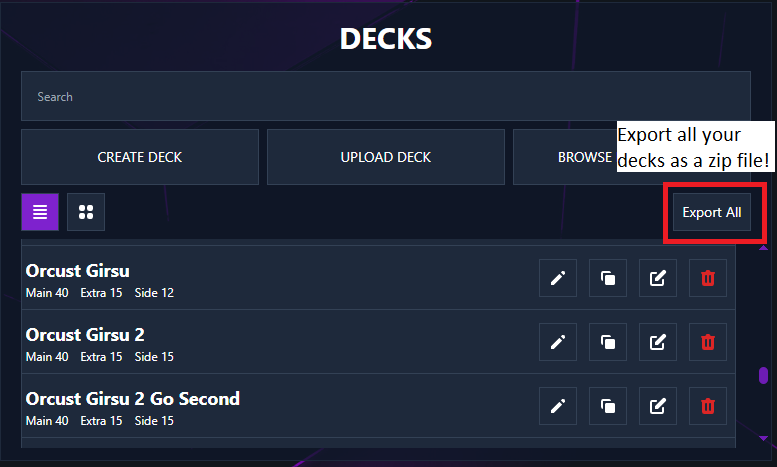
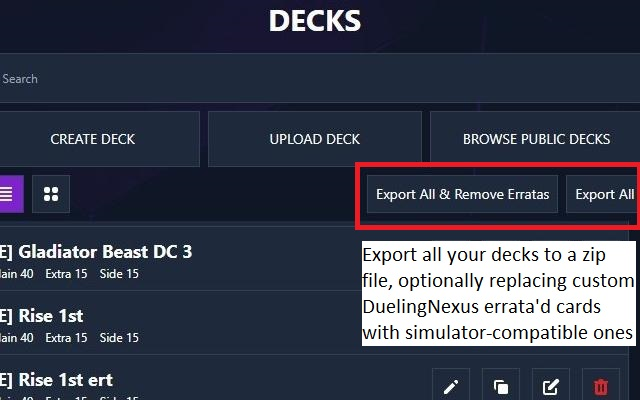
bug fix, some refactoring, new export without errata feature

diff --git a/lib/utils.js b/lib/utils.js
@@ -1,0 +1,159 @@
+/**
+ * Download a file using a blob
+ * @param {String} filename - The name of the file to download
+ * @param {String} content - The content of the file to download
+ */
+function downloadFile(filename, content) {
+    const blob = new Blob([content], { type: 'text/plain' });
+    const a = document.createElement('a');
+    a.href = URL.createObjectURL(blob);
+    a.download = filename;
+    document.body.appendChild(a);
+    a.click();
+    document.body.removeChild(a);
+    URL.revokeObjectURL(a.href);
+}
+
+/**
+ * Builds .ydk text from an array of main, extra and side deck card IDs.
+ * @param {Array<number>} main - The main deck card IDs.
+ * @param {Array<number>} extra - The extra deck card IDs.
+ * @param {Array<number>} side - The side deck card IDs.
+ * @returns {string} The .ydk deck text.
+ */
+function buildDeckText(main, extra, side) {
+    const lines = ['#created by ...', '#main'];
+    lines.push(...main);
+    lines.push('#extra', ...extra);
+    lines.push('!side', ...side);
+    return lines.join('\n');
+}
+
+/**
+ * Builds .ydk text from a deck object returned by the server.
+ * Unfortunately js doesn't support function overloading
+ * @param {Object} deck - The deck object returned by the server
+ * @returns {string} The .ydk deck text
+ */
+function buildDeckTextFromServer(deck) {
+    return buildDeckText(deck.main_deck.split(','), 
+                            deck.extra_deck.split(','), 
+                            deck.side_deck.split(','));
+}
+
+/**
+ * Retrieves all decks from the server, or a single deck if the id is included
+ *
+ * I've chosen to leave it like this, where it retrieves every deck when download is clicked(regardless of Export All or single (single deck hasn't been added yet)),
+ * in case the user changes a deck and downloads without reloading the page
+ * @param {Number} id - The id of the deck to retrieve, default is null which will retrieve all decks
+ * @return {Promise<Array<Object>>} A promise that resolves to an array of deck(s), empty if none were found
+ */
+async function retrieveDecks(id=null) {
+    const response = await fetch(`/api/list-decks.php`);// This is the only available way to retrieve decks from the server(to my knowledge)
+    const { success, decks } = await response.json();
+
+    if (success) {
+        if (id === null) {
+            return decks;
+        } else {
+            const deck = decks.find(deck => deck.id === id);
+            return deck === undefined ? [] : [deck];
+        }
+    }
+    return [];
+}
+
+/**
+ * Downloads all decks as a zip file or one as ydk if an id is included
+ * 
+ * @param {String} id - The id of the deck to download, default is null which will download all decks
+ * @param {Function} preProcessDecks - A function that can be used to modify the decks before downloading, takes an array of decks and returns nothing
+ */
+async function downloadDecks(id=null, preProcessDecks = (decks) => {}) {
+    const decks = await retrieveDecks(id);
+    if (decks.length === 0) return 0; // Nothing to do
+
+    preProcessDecks(decks);
+
+    // Download single deck as ydk
+    if (id !== null && decks.length === 1) {
+        downloadFile(`${decks[0].name}.ydk`, buildDeckTextFromServer(decks));
+        return 0;
+    }
+
+    // Download all decks as a zip file
+    var zip = new JSZip();
+
+    decks.forEach(deck => {
+        //console.log(`${deck.name}`);
+        zip.file(`${deck.name}.ydk`, buildDeckTextFromServer(deck));
+    });
+
+    zip.generateAsync({type:"blob"})
+    .then(function(content) {
+        downloadFile("duelingnexus_decks.zip", content);
+    });
+}
+
+
+/**
+ * Replaces all errata ids in all decks with their corresponding normal id
+ * @param {Array<Object>} decks - Deck object returned by the server
+ */
+function replaceAllDeckErratas(decks) {
+    // Normal Id and Errata Id in order. May change to include multiple normal ids eventually (search blue-eyes as an example)
+    // Todo: These vars are used in two places. Put them in one
+    const normalIds = [
+      88264978, 53183600, 15894048, 75745607, 40737112, 47297616, 5645210, 61468779,
+      76862289, 38369349, 22446869, 91842653, 9596126, 89111398, 82841979, 28563545,
+      90960358, 21785144, 2356994, 95727991, 20932152, 58996430, 40473581, 96235275,
+      40044918, 48092532, 42940404, 2134346, 41006930, 89312388, 22624373, 21593977,
+      44178886, 75043725, 47025270, 65622692, 64500000, 65458948, 96300057, 55821894,
+      40695128, 3370104, 38538445, 43543777, 44364207, 38975369, 14878871, 65240384,
+      67159705, 43586926, 48148828, 45894482, 7183277, 95503687, 26202165, 77084837,
+      23265594, 2420921, 16226786, 9126351, 78349103, 9156135, 21502796, 56840658,
+      45452224, 12538374, 34471458, 76263644, 91998119, 10248389, 99724761, 2111707,
+      25119460, 99414168, 64631466, 25862681, 7391448, 50321796, 70583986, 29071332,
+      66403530, 68005187, 87910978, 80168720, 17655904, 69279219, 77565204, 16762927,
+      24294108, 16227556, 90502999, 96316857, 12923641, 59237154, 45247637, 47355498,
+      71645242, 94634433, 15800838, 37580756, 81210420, 29389368, 80604091, 9995766,
+      68540058, 40172183, 13955608
+    ];
+    const errataIds = [
+      130000007, 130000052, 130000080, 130000022, 130000060, 130000028, 130000110,
+      130000061, 130000043, 130000081, 130000062, 130000104, 130000075, 130000011,
+      130000044, 130000082, 130000105, 130000018, 130000019, 130000021, 130000002,
+      130000053, 130000039, 130000026, 130000008, 130000005, 130000031, 130000009,
+      130000038, 130000016, 130000030, 130000090, 130000014, 130000083, 130000071,
+      130000099, 130000100, 130000106, 130000101, 130000088, 130000033, 130000000,
+      130000017, 130000024, 130000025, 130000020, 130000046, 130000064, 130000086,
+      130000059, 130000072, 130000079, 130000010, 130000029, 130000045, 130000023,
+      130000076, 130000036, 130000001, 130000040, 130000032, 130000065, 130000051,
+      130000089, 130000027, 130000041, 130000015, 130000013, 130000096, 130000078,
+      130000097, 130000091, 130000092, 130000074, 130000095, 130000003, 130000048,
+      130000047, 130000058, 130000012, 130000057, 130000037, 130000049, 130000055,
+      130000068, 130000035, 130000050, 130000067, 130000069, 130000077, 130000084,
+      130000102, 130000103, 130000108, 130000034, 130000004, 130000006, 130000042,
+      130000054, 130000070, 130000085, 130000093, 130000056, 130000063, 130000087,
+      130000094, 130000113
+    ];
+
+    decks.forEach((deck, deckI) => {
+        errataIds.forEach((errataId, idx) => {
+            const errataIdStr = errataId.toString();
+            const normalIdStr = normalIds[idx].toString();
+
+            // Todo: improve this
+            if(deck.main_deck.includes(errataIdStr)) {
+                decks[deckI].main_deck = deck.main_deck.replace(new RegExp(errataIdStr, 'g'), normalIdStr);
+            }
+            if(deck.extra_deck.includes(errataIdStr)) {
+                decks[deckI].extra_deck = deck.extra_deck.replace(new RegExp(errataIdStr, 'g'), normalIdStr);
+            }
+            if(deck.side_deck.includes(errataIdStr)) {
+                decks[deckI].side_deck = deck.side_deck.replace(new RegExp(errataIdStr, 'g'), normalIdStr);
+            }
+        });
+    })
+}

diff --git a/deck_list_export.js b/deck_list_export.js
@@ -1,82 +1,33 @@
 (function () {
-    /**
-     * Download a file using a blob
-     * @param {String} filename - The name of the file to download
-     * @param {String} content - The content of the file to download
-     */
-    function downloadFile(filename, content) {
-        const blob = new Blob([content], { type: 'text/plain' });
-        const a = document.createElement('a');
-        a.href = URL.createObjectURL(blob);
-        a.download = filename;
-        document.body.appendChild(a);
-        a.click();
-        document.body.removeChild(a);
-        URL.revokeObjectURL(a.href);
+    function addButtonContainer() {
+        const container = document.querySelector('.flex.my-2.px-5');
+        const newDiv = document.createElement('div');
+        newDiv.className = 'flex flex-row';
+        newDiv.id = 'new-features-container';
+        newDiv.style.marginLeft = 'auto';
+
+        container.appendChild(newDiv);
     }
 
-    /**
-     * Generate a .ydk file text from a deck object returned by the server
-     * @param {Object} deck - The deck object returned by the server
-     * @returns {String} The text of the .ydk file
-     */
-    function generateDeckText(deck) {
-        const lines = ['#created by ...', '#main'];
-        lines.push(...deck.main_deck.split(','));
-        lines.push('#extra', ...deck.extra_deck.split(','));
-        lines.push('!side', ...deck.side_deck.split(','));
-        return lines.join('\n');
-    }
-    
-    /**
-     * Retrieves all decks from the server, or a single deck if the id is included
-     *
-     * I've chosen to leave it like this, where it retrieves every deck when download is clicked(regardless of Export All or single (single deck hasn't been added yet)),
-     * in case the user changes a deck and downloads without reloading the page
-     * @param {Number} id - The id of the deck to retrieve, default is null which will retrieve all decks
-     * @return {Promise<Array<Object>>} A promise that resolves to an array of deck(s), empty if none were found
-     */
-    async function retrieveDecks(id=null) {
-        const response = await fetch(`/api/list-decks.php`);// This is the only available way to retrieve decks from the server(to my knowledge)
-        const { success, decks } = await response.json();
+    function addExportAllRemoveErrataButton() {
+        // Find the container with the two buttons
+        const container = document.querySelector('#new-features-container');
+        if (!container) return;
 
-        if (success) {
-            if (id === null) {
-                return decks;
-            } else {
-                const deck = decks.find(deck => deck.id === id);
-                return deck === undefined ? [] : [deck];
-            }
-        }
-        return [];
-    }
+        // Create the Export All & remove Erratas button
+        const exportBtn = document.createElement('button');
+        exportBtn.title = 'Remove erratas and save to a zip file';
+        exportBtn.textContent = 'Export All & Remove Erratas';
+        exportBtn.className = 'export-all-erratas-btn flex flex-col justify-center transition-colors hover:bg-purple-700 cursor-pointer bg-slate-800 border-[1px] border-slate-700 p-2 ml-2';
+        // Style to push it to the far right
+        //exportBtn.style.marginLeft = 'auto';
 
-    /**
-     * Downloads all decks as a zip file or one as ydk if an id is included
-     * @param {Number} id - The id of the deck to download, default is null which will download all decks
-     */
-    async function downloadDecks(id=null) {
-        const decks = await retrieveDecks(id);
-        if (decks.length === 0) return 0; // Nothing to do
-
-        // Download single deck as ydk
-        if (id !== null && decks.length === 1) {
-            downloadFile(`${decks[0].name}.ydk`, generateDeckText(decks));
-            return 0;
-        }
-
-        // Download all decks as a zip file
-        var zip = new JSZip();
-
-        decks.forEach(deck => {
-            //console.log(`${deck.name}`);
-            zip.file(`${deck.name}.ydk`, generateDeckText(deck));
+        exportBtn.addEventListener('click', function () {
+            downloadDecks(null, replaceAllDeckErratas);
         });
 
-        zip.generateAsync({type:"blob"})
-        .then(function(content) {
-            downloadFile("duelingnexus_decks.zip", content);
-        });
+        // Insert as the last child
+        container.appendChild(exportBtn);
     }
     
     /**
@@ -86,7 +37,7 @@
      */
     function addExportAllButton() {
         // Find the container with the two buttons
-        const container = document.querySelector('.flex.my-2.px-5');
+        const container = document.querySelector('#new-features-container');
         if (!container) return;
 
         // Create the Export All button
@@ -95,7 +46,7 @@
         exportBtn.textContent = 'Export All';
         exportBtn.className = 'export-all-btn flex flex-col justify-center transition-colors hover:bg-purple-700 cursor-pointer bg-slate-800 border-[1px] border-slate-700 p-2 ml-2';
         // Style to push it to the far right
-        exportBtn.style.marginLeft = 'auto';
+        //exportBtn.style.marginLeft = 'auto';
 
         exportBtn.addEventListener('click', function () {
             downloadDecks();
@@ -115,8 +66,11 @@
             && mutation.addedNodes[0].baseURI === "https://duelingnexus.com/decks"
             && mutation.addedNodes[0].nodeName === "DIV"
             && mutation.addedNodes[0].className === "flex justify-center items-center w-full") {
+
+            addButtonContainer();
+            addExportAllRemoveErrataButton();
             addExportAllButton();
-            //Todo: add export button for each individual deck
+            //Todo: add export button for each individual deck. Maybe not due to UI clutter
         }
     }
     });
@@ -126,7 +80,4 @@
     subtree: false
     };
     observer.observe(appElement, config);
-
-    //Todo: Modularize code (downloadFile, etc.)
-    //"Export All & Remove Erratas" button
 })();

diff --git a/export.js b/export.js
@@ -1,8 +1,6 @@
 (function () {
-  // Extract card ID from img background URL
-  
   /**
-   * Extracts an array of card IDs from a given container on the page.
+   * Extract card ID from img background URL
    * 
    * This is also possible by accessing existing js variables, but that would
    * require injecting this script, which I'd like to avoid unless necessary.
@@ -17,31 +15,6 @@
       const match = img.style.backgroundImage.match(/\/(\d+)\.jpg/);
       return match ? match[1] : null;
     }).filter(Boolean);
-  }
-
-  // Build the .ydk deck text
-  function buildDeckText(main, extra, side) {
-    const lines = ['#created by ...', '#main'];
-    lines.push(...main);
-    lines.push('#extra', ...extra);
-    lines.push('!side', ...side);
-    return lines.join('\n');
-  }
-
-  /**
-   * Download a file using a blob
-   * @param {String} filename - The name of the file to download
-   * @param {String} content - The content of the file to download
-   */
-  function downloadFile(filename, content) {
-    const blob = new Blob([content], { type: 'text/plain' });
-    const a = document.createElement('a');
-    a.href = URL.createObjectURL(blob);
-    a.download = filename;
-    document.body.appendChild(a);
-    a.click();
-    document.body.removeChild(a);
-    URL.revokeObjectURL(a.href);
   }
 
 /**

diff --git a/errata_toggle.js b/errata_toggle.js
@@ -1,4 +1,21 @@
 (function () {
+  /**
+   * Finds errata matches in a deck section array (main/extra/side), putting them in a map of format {deckArrIndex: errataOrNormalIdsIndex}.
+   * deckArr is one of these three: main/extra/side
+   * 
+   * @param {Array<number>} deckArr - Array of card IDs to search through.
+   * @param {Array<number>} ids - Array of IDs (erratas or their normal counterparts) to match against.
+   * @returns {Object} An object mapping indices of matches in deckArr to their indices in ids. {deckArrIndex: errataOrNormalIdsIndex}
+   */
+  function findMatches(deckArr, ids) {
+      const map = {};
+      deckArr.forEach((id, idx) => {
+          const foundIdx = ids.indexOf(id);
+          if (foundIdx !== -1) map[idx] = foundIdx;
+      });
+      return map;
+  }
+
   // Only add once
   if (document.getElementById('errata-button')) return;
 
